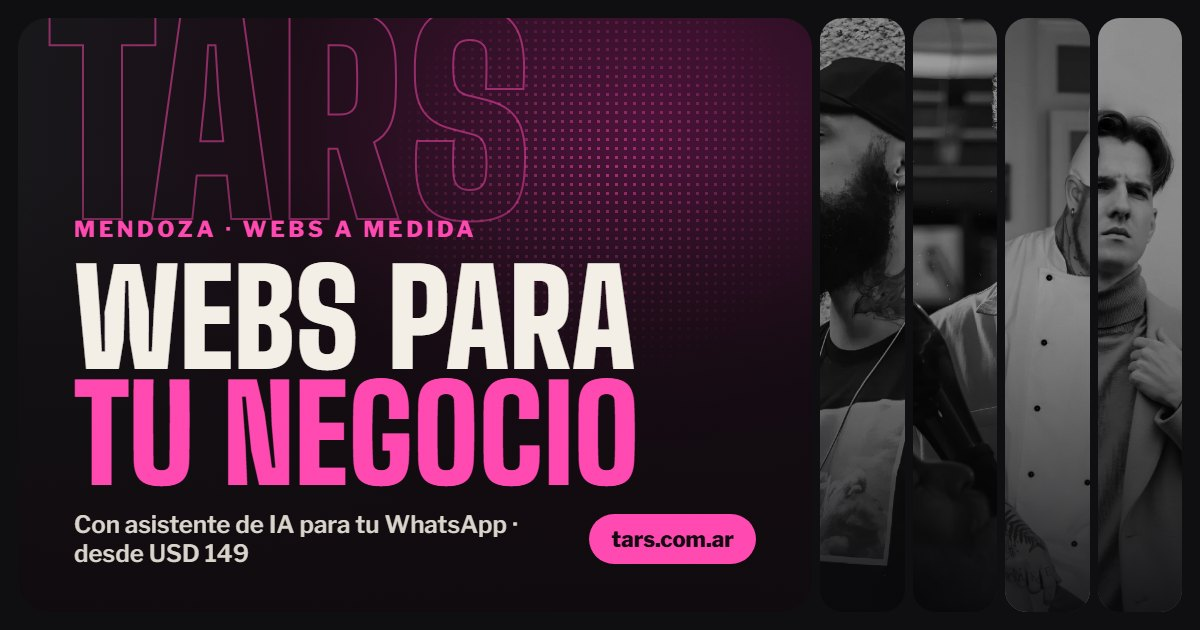
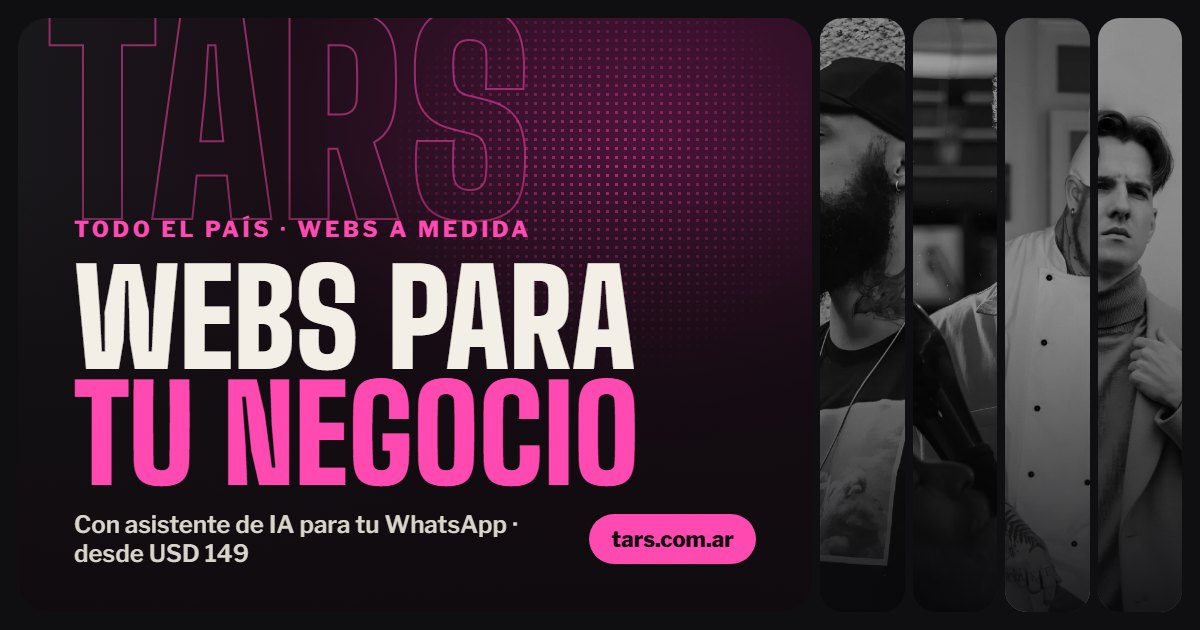
Imagen para compartir: «Todo el país · webs a medida» en vez de Mendoza

Changed region(s): [[0.0617, 0.3317, 0.4625, 0.3921]]

diff --git a/scripts/og-images.js b/scripts/og-images.js
@@ -23,7 +23,7 @@ if (!SITE) throw new Error('No encontré el canonical de index.html');
 
 // title: lo que va entre *asteriscos* sale en rosa. photos: franjas de rubros a la derecha (solo la portada).
 const PAGES = [
-  { file: 'index.html', image: 'inicio', kicker: 'Mendoza · webs a medida', title: 'Webs para *tu negocio*', size: 132, note: 'Con asistente de IA para tu WhatsApp · desde USD 149', photos: true },
+  { file: 'index.html', image: 'inicio', kicker: 'Todo el país · webs a medida', title: 'Webs para *tu negocio*', size: 132, note: 'Con asistente de IA para tu WhatsApp · desde USD 149', photos: true },
   { file: 'servicios.html', image: 'servicios', kicker: 'Landing · sitio completo · asistente de IA', title: 'Servicios *y precios*', size: 150, note: 'Qué incluye cada uno y cuánto sale' },
   { file: 'contacto.html', image: 'contacto', kicker: 'Propuesta en menos de 24 horas', title: '*Escribime*', size: 190, note: 'WhatsApp · email · formulario' },
   { file: 'blog.html', image: 'blog', kicker: 'Consejos para negocios', title: '*Blog*', size: 240, note: 'Webs que venden, celular y mantenimiento' },

diff --git a/index.html b/index.html
@@ -21,7 +21,7 @@
     <meta property="og:image" content="https://tars.com.ar/og/inicio.jpg" />
     <meta property="og:image:width" content="1200" />
     <meta property="og:image:height" content="630" />
-    <meta property="og:image:alt" content="Webs a medida · Webs para tu negocio · Tars" />
+    <meta property="og:image:alt" content="Todo el país · webs a medida · Webs para tu negocio · Tars" />
     <meta name="twitter:card" content="summary_large_image" />
     <meta name="twitter:title" content="Tars · Webs para tu negocio" />
     <meta name="twitter:description" content="Webs a medida para negocios de todo el país, con un asistente de IA que atiende tu WhatsApp. Elegí tu rubro, mirá cómo puede quedar la tuya y armá tu precio." />
